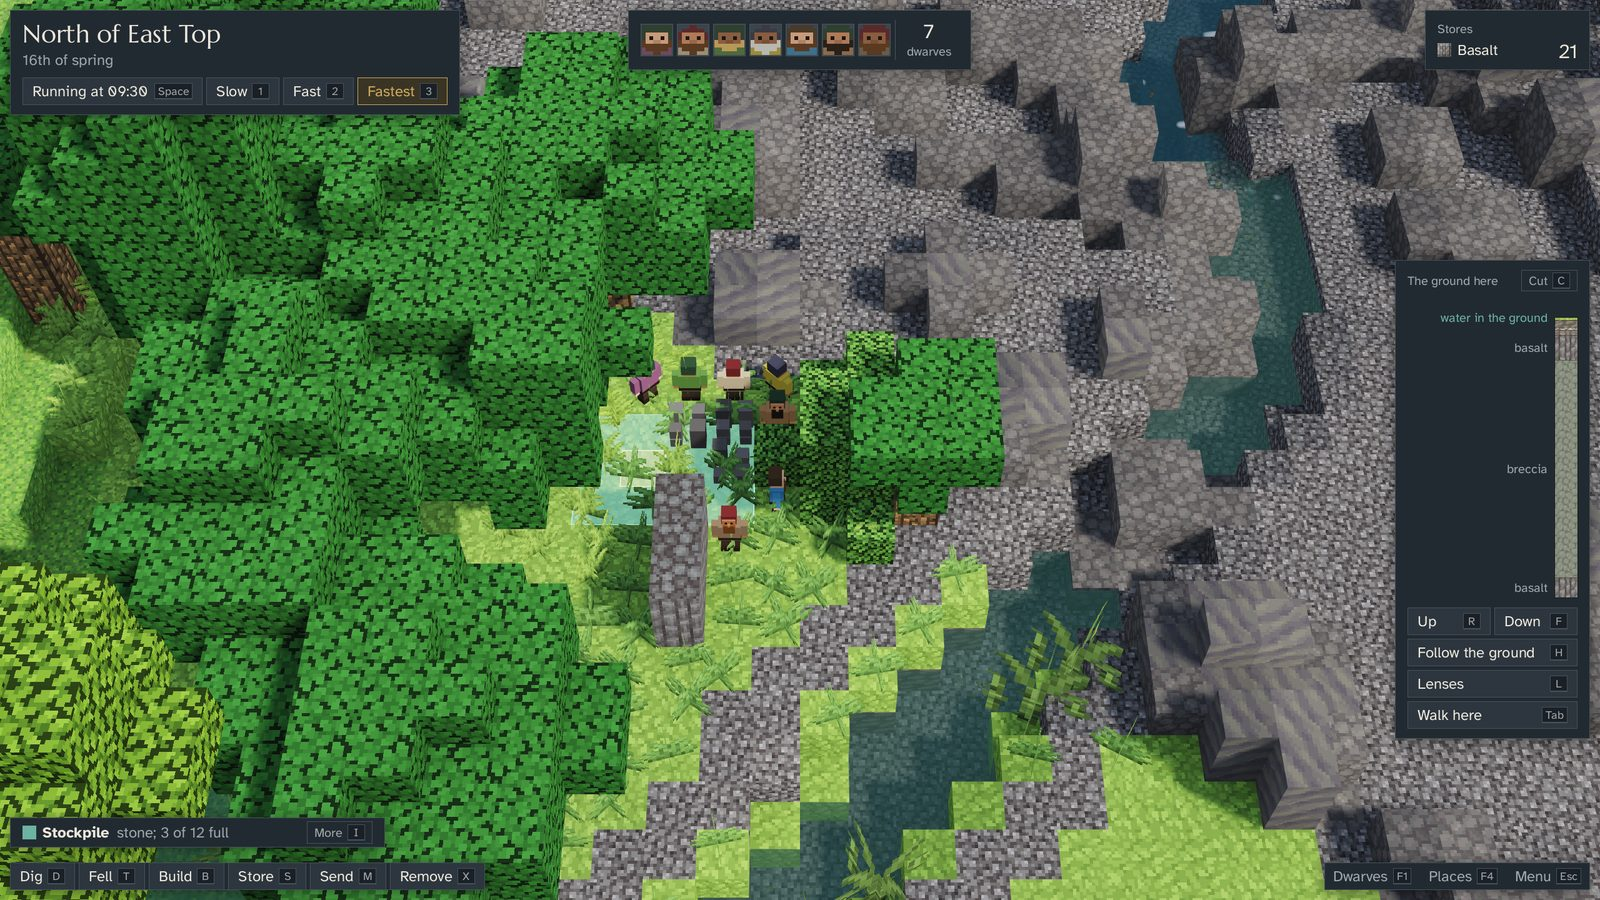
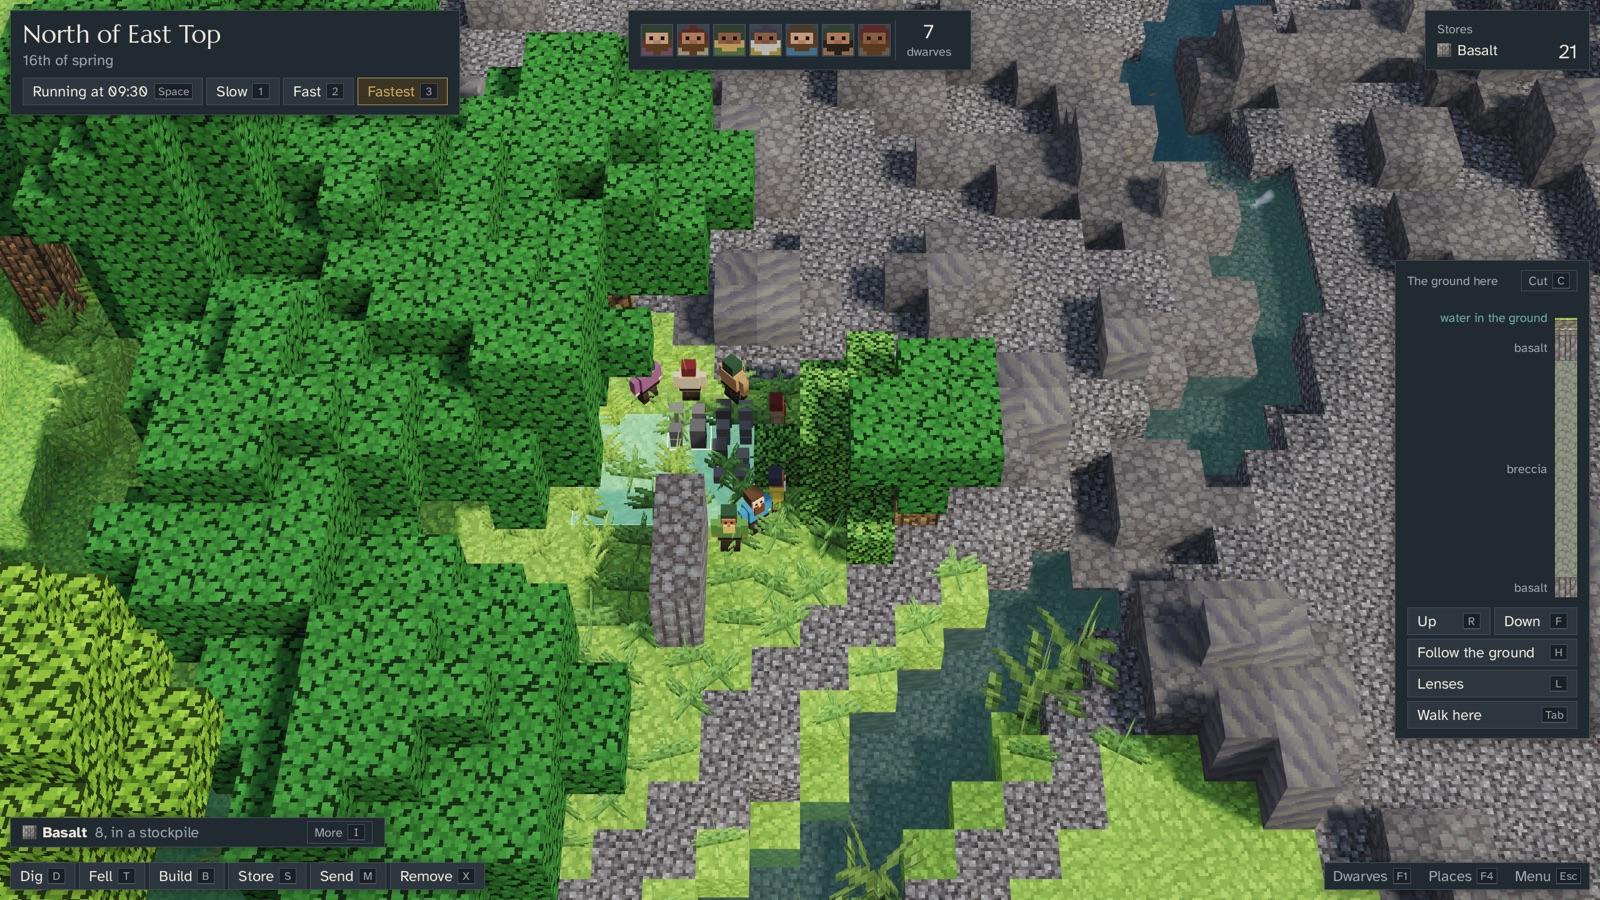
The stores' note fits its panel, and the played click lands on a pile
The line under the stores read past the panel's edge with no stockpile marked; it now says
'21 loose: no stockpile'. The play script's click on a pile missed it and showed the
stockpile's line twice; it now lands on the pile, which says 'Basalt 8, in a stockpile'.
Checked by playing it and by ./build.sh test.

diff --git a/docs/plan.md b/docs/plan.md
@@ -742,7 +742,7 @@ An orders file says a stockpile as `store all|stone|timber x y z x y z`.
 | The case | Before | Now | Pictures |
 |---|---|---|---|
 | A wall ordered with nothing to build it of | It waited on a count nobody saw | It stands marked as small blocks, and an alert says "No stone anywhere for the wall: dig rock." | [waiting](interesting-world/real/play/g-01-wall-waiting.jpg) |
-| A dig whose stone lies loose, then is used | The stone went to an unseen store | 27 stones lie in the room they were dug from; the stores say "20 lie loose: no stockpile yet"; the wall's six are fetched from there and it is built 24 s after the dig ends. A click on it says "Wall of basalt, built by the hold" | [loose](interesting-world/real/play/g-02-stone-loose.jpg), [built](interesting-world/real/play/g-03-wall-built.jpg), [clicked](interesting-world/real/play/g-04-click-wall.jpg) |
+| A dig whose stone lies loose, then is used | The stone went to an unseen store | 27 stones lie in the room they were dug from; the stores say "20 loose: no stockpile"; the wall's six are fetched from there and it is built 24 s after the dig ends. A click on it says "Wall of basalt, built by the hold" | [loose](interesting-world/real/play/g-02-stone-loose.jpg), [built](interesting-world/real/play/g-03-wall-built.jpg), [clicked](interesting-world/real/play/g-04-click-wall.jpg) |
 | A stockpile dragged on flat ground, and the stone carried | No such thing | 4 by 3: 12 places for stone; 21 stones carried 30 m to it in 52 s, 9 s at the fastest speed, and the stores read Basalt 21 | [drag](interesting-world/real/play/g-05-store-flat-drag.jpg), [carrying](interesting-world/real/play/g-06-carrying.jpg), [stored](interesting-world/real/play/g-07-stored.jpg) |
 | A click on a pile and on a stockpile | | "Basalt  8, in a stockpile"; "Stockpile  stone; 3 of 12 full" | [pile](interesting-world/real/play/g-08-click-pile.jpg), [stockpile](interesting-world/real/play/g-09-click-zone.jpg) |
 | A wood felled and its logs carried to a stockpile on a slope | The timber went to the unseen store | 75 logs lie where the twelve trees stood, "75 lie loose, not counted"; a stockpile of 50 places follows the slope; all are carried in 26 s; Timber 75 | [loose](interesting-world/real/play/g-10-logs-loose.jpg), [drag](interesting-world/real/play/g-11-store-slope-drag.jpg), [carrying](interesting-world/real/play/g-12-logs-carrying.jpg), [on foot](interesting-world/real/play/g-13-logs-carrying-afoot.jpg), [stored](interesting-world/real/play/g-14-logs-stored.jpg) |

diff --git a/docs/foundations/interface.md b/docs/foundations/interface.md
@@ -302,7 +302,7 @@ The owner played P3 on 2026-11-16 and called it terrible (`../open-decisions.md`
 
 The owner asked for a place for what is gathered, and to see it (`../open-decisions.md`, 2026-11-16). Section 4 gave the stores the top right and the bar a Store order; these are the places where building them settled what was open, and why.
 
-- **The stores say what lies in stockpiles, and say that what lies loose is not counted.** A row a kind, each beside a block of itself: the stones by their rock, the timber together, the five there are most of. Under them one small line: "21 lie loose, not counted", or, with no stockpile marked, "21 lie loose: no stockpile yet". RimWorld counts only what is in storage and says nothing of the rest; here the line is the way a new player learns that a stockpile is wanted. The panel is not drawn while there is nothing dug, nothing stored and no stockpile.
+- **The stores say what lies in stockpiles, and say that what lies loose is not counted.** A row a kind, each beside a block of itself: the stones by their rock, the timber together, the five there are most of. Under them one small line: "21 lie loose, not counted", or, with no stockpile marked, "21 loose: no stockpile". RimWorld counts only what is in storage and says nothing of the rest; here the line is the way a new player learns that a stockpile is wanted. The panel is not drawn while there is nothing dug, nothing stored and no stockpile.
 - **Store (S) is a tool like the others**: its name, what it takes (Everything, Stone, Timber) as buttons, and one live line ("4 by 3: 12 places for stone."). The drag is a rectangle on the ground, and takes the places a dwarf can stand in it near the level it began on, so on a slope it follows the slope. Over a stockpile the line says what it takes and how full it is. Dragging beside one that takes the same makes it larger.
 - **A stockpile's ground is tinted verdigris**, the colour of what is well, where marked work is brass.
 - **Things are drawn as what they are**: stone as a heap of small pale stones of its rock's colour, up to eight in a cell; timber as logs laid across each other. A dwarf carrying holds a stone or a log over its head.
